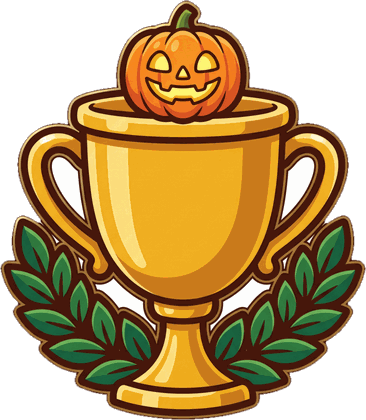
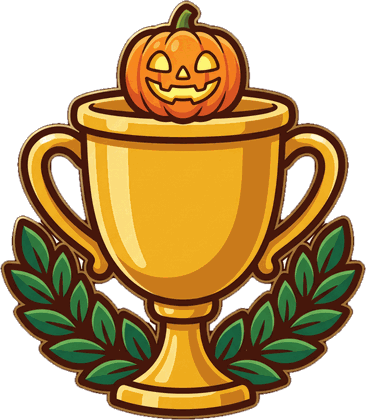
Coupe des Morts : pas de classement avant le choix d'équipe (juste l'outsider), bonus outsider affiché sur la page Équipes ; pin's doré re-détouré

diff --git a/js/assets.js b/js/assets.js
@@ -1,3 +1,3 @@
 /* généré par tools/manifest.py */
 window.ASSETS = ["ach-aga100", "ach-agr3", "ach-bets50", "ach-bets500", "ach-boo50", "ach-car1", "ach-car7", "ach-cards30", "ach-cards60", "ach-club10", "ach-combi20", "ach-combi3", "ach-cool50", "ach-cr10", "ach-crp25", "ach-dance30", "ach-deal10", "ach-deal50", "ach-decos5", "ach-first-bet", "ach-garage3", "ach-gold5", "ach-hodl", "ach-item10", "ach-jackpot", "ach-look2", "ach-lvl10", "ach-lvl20", "ach-mine10", "ach-mine200", "ach-prop1", "ach-prop4", "ach-quests5", "ach-resell25", "ach-rigmax", "ach-roul50", "ach-roul500", "ach-scr50", "ach-scr500", "ach-ser1", "ach-ser5", "ach-skin3", "ach-slots4", "ach-sneak5", "ach-spin100", "ach-spin1000", "ach-stk10", "ach-stock50", "ach-streak7", "ach-tip20", "ach-w100k", "ach-w10k", "ach-w1m", "ach-watch3", "ach-win10", "ach-win100", "ach-win500", "act-collab", "act-live", "act-rest", "act-shoot", "act-trip", "app-agence", "app-bank", "app-bets", "app-binder", "app-boosters", "app-crypto", "app-immo", "app-infos", "app-missions", "app-msg", "app-objets", "app-settings", "art-c-signed", "art-coach-foot", "art-coach-tennis", "art-fan-ultra", "art-k-b1", "art-k-b10", "art-k-b11", "art-k-b12", "art-k-b2", "art-k-b3", "art-k-b4", "art-k-b5", "art-k-b6", "art-k-b7", "art-k-b8", "art-k-b9", "art-k-f1", "art-k-f10", "art-k-f11", "art-k-f12", "art-k-f13", "art-k-f14", "art-k-f15", "art-k-f16", "art-k-f17", "art-k-f18", "art-k-f19", "art-k-f2", "art-k-f20", "art-k-f21", "art-k-f22", "art-k-f23", "art-k-f24", "art-k-f3", "art-k-f4", "art-k-f5", "art-k-f6", "art-k-f7", "art-k-f8", "art-k-f9", "art-k-r1", "art-k-r2", "art-k-r3", "art-k-r4", "art-k-r5", "art-k-r6", "art-k-t1", "art-k-t10", "art-k-t11", "art-k-t12", "art-k-t2", "art-k-t3", "art-k-t4", "art-k-t5", "art-k-t6", "art-k-t7", "art-k-t8", "art-k-t9", "art-mascot", "art-ref-foot", "art-six-cap-1", "art-six-cap-2", "art-six-cap-3", "badge-xe", "bed-laptop-f", "bed-laptop-m", "bg-city", "bg-city-hiver", "bg-city-neon", "bg-city-renov", "bld-appart", "bld-appart-hiver", "bld-appart-neon", "bld-appart-renov", "bld-balto", "bld-balto-hiver", "bld-balto-neon", "bld-balto-renov", "bld-bijou", "bld-casino", "bld-casino-hiver", "bld-casino-neon", "bld-casino-renov", "bld-club", "bld-club-hiver", "bld-club-renov", "bld-garage", "bld-kiosque", "bld-kiosque-hiver", "bld-kiosque-neon", "bld-kiosque-renov", "bld-parking", "bld-shop", "bld-shop-hiver", "bld-shop-neon", "bld-shop-renov", "bld-six", "bld-six-hiver", "bld-six-neon", "bld-six-off", "bld-six-renov", "bld-tour", "bonus-airdrop", "bonus-cash", "bonus-freebet", "bonus-lingots", "bonus-ticket", "bonus-xp", "booster-pack", "btn-momo", "btn-setup", "btn-upgrade", "card-back", "card-back-crea", "card-bg-basket", "card-bg-foot", "card-bg-rugby", "card-bg-tennis", "casino-machine", "cat-car", "cat-card", "cat-crea", "cat-gem", "cat-gold", "cat-moto", "cat-sneaker", "cat-trophy", "cat-watch", "chip-1", "chip-10", "chip-100", "chip-25", "chip-5", "chip-500", "club-door", "club-room", "coin-btk", "coin-dgk", "coin-eta", "coin-lmn", "coin-ppc", "coin-slr", "cr-eva", "cr-ines", "cr-jade", "cr-kim", "cr-leila", "cr-lola", "cr-mila", "cr-nora", "cr-rose", "cr-sasha", "cred-boss", "cred-caid", "cred-hustler", "cred-magnat", "crest-b1", "crest-b10", "crest-b11", "crest-b12", "crest-b2", "crest-b3", "crest-b4", "crest-b5", "crest-b6", "crest-b7", "crest-b8", "crest-b9", "crest-f1", "crest-f10", "crest-f11", "crest-f12", "crest-f13", "crest-f14", "crest-f15", "crest-f16", "crest-f17", "crest-f18", "crest-f19", "crest-f2", "crest-f20", "crest-f21", "crest-f22", "crest-f23", "crest-f24", "crest-f3", "crest-f4", "crest-f5", "crest-f6", "crest-f7", "crest-f8", "crest-f9", "crest-r1", "crest-r2", "crest-r3", "crest-r4", "crest-r5", "crest-r6", "deco-chaudron", "deco-citrouilles", "deco-dc-arcade", "deco-dc-ball", "deco-dc-bench", "deco-dc-car", "deco-dc-flags", "deco-dc-fountain", "deco-dc-kebab", "deco-dc-lamp", "deco-dc-palm", "deco-dc-posts", "deco-dc-statue", "deco-dc-trophy", "deco-toiles", "deco-tombe", "ev-boost", "ev-cdm-bg", "ev-cdm-board", "ev-cdm-candy", "ev-cdm-chest", "ev-cdm-cup", "ev-rig", "ev-sale", "ev-xp", "frame-cdm", "frame-gold", "frame-six", "full-c-ace", "full-c-ballon", "full-c-dunk", "full-c-essai", "full-c-final", "full-c-goat", "full-c-graded", "full-coach", "full-k-b4", "full-k-f4", "full-k-f8", "full-k-t1", "full-rookie", "fx-smoke", "gear-cam", "gear-cosplay", "gear-gown", "gear-mic", "gear-ring", "gear-spa", "gear-sport", "gear-studio", "gear-travel", "gift-big", "gift-open", "graded-slab", "guide", "hab-club", "hab-drink", "hab-smoke", "hdr-daily", "hdr-levelup", "hdr-missions", "hdr-settings", "ic-ad-reward", "ic-bell", "ic-burn", "ic-bus", "ic-club-bar", "ic-club-dance", "ic-club-dj", "ic-club-door", "ic-club-lounge", "ic-club-vip", "ic-down", "ic-ev-cdm", "ic-fan", "ic-flame", "ic-heat", "ic-info", "ic-mood", "ic-pickaxe", "ic-promo", "ic-promo-bf", "ic-promo-halloween", "ic-promo-noel", "ic-rumor", "ic-shelf", "ic-shop-lingots", "ic-shop-ville", "ic-sport-all", "ic-sport-basket", "ic-sport-foot", "ic-sport-tennis", "ic-subs", "ic-target", "ic-timer", "ic-truck", "ic-unlock", "ic-up", "ic-videur", "ic-virus", "icon-arrowL", "icon-arrowR", "icon-bolt", "icon-cash", "icon-check", "icon-dice", "icon-gear", "icon-gift", "icon-lingot", "icon-lock", "icon-mute", "icon-sound", "icon-star", "icon-treasure", "icon-trophy", "item-c-1st", "item-c-dragon", "item-c-holo", "item-c-psa10", "item-c-signed", "item-cr-betonnard", "item-cr-biscotto", "item-cr-bitumouche", "item-cr-canardo", "item-cr-chenillette", "item-cr-cosmo", "item-cr-crocodalle", "item-cr-electrochat", "item-cr-escargoat", "item-cr-fenekko", "item-cr-flamenkoh", "item-cr-fourmidable", "item-cr-golemneon", "item-cr-gorilleur", "item-cr-grenouf", "item-cr-herissnik", "item-cr-hiboss", "item-cr-kaiju", "item-cr-kebabzor", "item-cr-kraken", "item-cr-licornette", "item-cr-liontours", "item-cr-louperiph", "item-cr-matouz", "item-cr-moustikass", "item-cr-pandagrillz", "item-cr-parrain", "item-cr-phenix", "item-cr-pigeonnard", "item-cr-poubellou", "item-cr-ratchou", "item-cr-requinoir", "item-cr-scarabling", "item-cr-serpentdor", "item-cr-taupecash", "item-cr-tigresko", "item-cr-trotilezard", "item-cr-yetiz", "item-g-comic", "item-g-diam", "item-g-earrings", "item-g-egg", "item-g-emerald", "item-g-pearl", "item-g-roman", "item-g-ruby", "item-g-sapphire", "item-g-stamp", "item-m-cafe", "item-m-chopper", "item-m-cross", "item-m-road", "item-m-scoot", "item-m-sport", "item-m-touring", "item-m-trike", "item-o-bar10", "item-o-bar100", "item-o-chain", "item-o-lion", "item-o-napo", "item-o-nugget", "item-o-ring", "item-p-flat", "item-p-office", "item-p-park", "item-p-studio", "item-s-basket", "item-s-camo", "item-s-chunky", "item-s-collab", "item-s-court", "item-s-gold", "item-s-graff", "item-s-lux", "item-s-moon", "item-s-neon", "item-s-retro", "item-s-runner", "item-s-skate", "item-st-kbc", "item-st-mtr", "item-st-nbk", "item-st-pxl", "item-st-sol", "item-st-stw", "item-t-collect", "item-t-combi", "item-t-first", "item-t-hodl", "item-t-jackpot", "item-v-city", "item-v-electric", "item-v-gti", "item-v-hyper", "item-v-muscle", "item-v-pickup", "item-v-rally", "item-v-super", "item-v-van", "item-w-chrono", "item-w-digital", "item-w-diver", "item-w-field", "item-w-grail", "item-w-iced", "item-w-pilot", "item-w-pocket", "item-w-quartz", "item-w-sq", "item-w-steel", "item-w-tourb", "item-w-unique", "load-1", "load-2", "load-3", "load-4", "load-5", "load-6", "load-7", "load-8", "logo", "medal-bronze", "medal-gold", "medal-silver", "minerv-0", "minerv-1", "minerv-2", "minerv-3", "minerv-4", "nav-bets", "nav-city", "nav-home", "nav-shop", "nav-trading", "nav-wallet", "niche-beaute", "niche-bienetre", "niche-cuisine", "niche-danse", "niche-fitness", "niche-gaming", "niche-mode", "niche-musique", "niche-voyage", "pack-collec", "pack-magnat", "pack-noads", "pack-pass", "pack-start", "parking-bg", "pc-0", "pc-1", "pc-2", "pcv-0", "pcv-1", "pcv-2", "pcv-r1", "pcv-r2", "pcv-r3", "pcv-r4", "phone-wall", "pin-demons", "pin-fantomes", "pin-gold", "pin-vampires", "pin-zombies", "player-t1", "player-t10", "player-t11", "player-t12", "player-t2", "player-t3", "player-t4", "player-t5", "player-t6", "player-t7", "player-t8", "player-t9", "pop-starter", "rig-0", "rig-1", "rig-2", "rig-3", "rig-4", "rigv-0", "rigv-1", "rigv-2", "rigv-3", "rigv-4", "ringlight", "room-f-0", "room-f-1", "room-f-2", "room-m-0", "room-m-1", "room-m-2", "roulette-felt", "roulette-hub", "scr-beer", "scr-burger", "scr-cap", "scr-dice", "scr-headphones", "scr-scooter", "shop-hero", "shop-lingot-1", "shop-lingot-2", "shop-lingot-3", "shop-lingot-4", "shop-lingot-5", "shop-lingot-6", "skin-boss", "skin-boss-bust", "skin-doudoune", "skin-doudoune-bust", "skin-flambeur", "skin-flambeur-bust", "skin-gold", "skin-gold-bust", "skin-hoodie", "skin-hoodie-bust", "skin-sportive", "skin-sportive-bust", "skin-survet", "skin-survet-bust", "slot-bar", "slot-bell", "slot-cherry", "slot-diam", "slot-lemon", "slot-seven", "team-demons", "team-fantomes", "team-vampires", "team-zombies", "ticket-flash", "tip-crypto", "tip-market", "tip-sport", "tk-astro", "tk-banco", "tk-black", "tk-flash", "tk-millio", "tk-morpion", "tkbg-astro", "tkbg-banco", "tkbg-black", "tkbg-flash", "tkbg-millio", "tkbg-morpion", "ui-avatar-frame", "ui-badge", "ui-bar-fill", "ui-bar-frame", "ui-btn-blue", "ui-btn-close", "ui-btn-green", "ui-btn-grey", "ui-btn-plus", "ui-btn-purple", "ui-btn-red", "ui-btn-yellow", "ui-card", "ui-casino-frame", "ui-casino-header", "ui-navbtn", "ui-panel", "ui-pill", "ui-ribbon", "ui-tab-off", "ui-tab-on", "ui-tuto-arrow", "wx-bear", "wx-bull", "wx-calm", "wx-fomo", "wx-krach"];
-window.ASSET_V = 1791399123;
+window.ASSET_V = 1791400312;

diff --git a/js/ui.js b/js/ui.js
@@ -1948,7 +1948,7 @@
     const top = B.top.map((r, k) => `<div class="sb-row ${r.me ? 'me' : ''}"><span class="sb-rk">${B.online ? k + 1 : '–'}</span><span class="sb-nm">${esc(r.me ? `${r.name} (toi)` : r.name)}</span><b>${fmtN(+r.pts || 0)} pts</b></div>`).join('');
     const meRow = B.online && !B.top.some(r => r.me) ? `<div class="sb-gap">…</div><div class="sb-row me"><span class="sb-rk">${B.rank}</span><span class="sb-nm">${esc(st().name)} (toi)</span><b>${fmtN(S.pts)} pts</b></div>` : '';
     return head + `<h3 class="sec">La course des équipes${B.online ? ` <small>· ${fmtN(B.players)} joueur${B.players > 1 ? 's' : ''}</small>` : ''}</h3>${cdmRace(B, S.team)}
-      <div class="card cdm-mine" style="--tc:${T.color};--td:${T.dark}">${cdmCrest(T.id)}<div><b>${T.name}</b><small>« ${T.motto} »</small><p>Ta part : <b>${fmtN(S.pts)} pts</b>${B.online ? ` · ${B.rank}<sup>${B.rank === 1 ? 'er' : 'e'}</sup> sur ${fmtN(B.of)}` : ''}</p></div></div>
+      <div class="card cdm-mine" style="--tc:${T.color};--td:${T.dark}">${cdmCrest(T.id)}<div><b>${T.name}</b><small>« ${T.motto} »</small><p>Ta part : <b>${fmtN(S.pts)} pts</b>${B.online ? ` · ${B.rank}<sup>${B.rank === 1 ? 'er' : 'e'}</sup> sur ${fmtN(B.of)}` : ''}</p>${S.boost ? `<span class="cdm-under-tag">Outsider · tes points comptent +${Math.round((S.boost - 1) * 100)} %</span>` : ''}</div></div>
       ${(() => { const by = (S.day && S.day.d === G.cdmNight().d && S.day.by) || (S.day && S.day.by) || {}, how = Object.entries(C.pts).map(([k, p]) => `<div class="sb-row"><span class="sb-nm">${CDM_LBL[k] || k}</span><small class="muted">${by[k] || 0} / ${p[1]} aujourd'hui</small><b>+${p[0]}</b></div>`).join('');
         return `<details class="howto-crypto cdm-howto" ${cdmHowOpen ? 'open' : ''}><summary data-act="cdmHow">Comment gagner des points ?</summary><p>Tout ce que tu fais dans le jeu rapporte des points à ton équipe, avec un maximum par jour pour chaque action. <b>${C.perCandy} points = 1 bonbon</b>.${S.boost ? ` Toi, en outsider : <b>+${Math.round((S.boost - 1) * 100)} %</b> sur tout.` : ''}</p><div class="six-board-list cdm-how">${how}</div></details>`; })()}
       <h3 class="sec">Le top 5 des ${T.name}</h3><div class="six-board-list">${top}${meRow}</div>
@@ -1960,7 +1960,7 @@
     const B = G.cdmBoard();
     return cdmHero() + `<p class="hint-line center">Choisis ton camp ! Tout ce que tu fais dans le jeu rapporte des points à ton équipe. <b>Ton choix est définitif</b> jusqu'à la fin de la Coupe.</p>
       <div class="grid2 cdm-pick">${D.CDM.teams.map(t => { const b = B.teams.find(x => x.id === t.id);
-        return `<button class="cdm-tcard" style="--tc:${t.color};--td:${t.dark}" data-act="cdmPick" data-id="${t.id}">${G.cdmUnderdog() === t.id ? `<span class="cdm-under">Outsider · +${Math.round((D.CDM.outsider - 1) * 100)} % de points</span>` : ''}${cdmCrest(t.id, 'big')}<b>${t.name}</b><small>« ${t.motto} »</small>${B.online ? `<em>${b.rank}<sup>${b.rank === 1 ? 're' : 'e'}</sup> · ${fmtN(b.total)} pts · ${fmtN(b.players)} joueur${b.players > 1 ? 's' : ''}</em>` : ''}</button>`; }).join('')}</div>${B.online ? '' : offLine()}`;
+        return `<button class="cdm-tcard" style="--tc:${t.color};--td:${t.dark}" data-act="cdmPick" data-id="${t.id}">${G.cdmUnderdog() === t.id ? `<span class="cdm-under">Outsider · +${Math.round((D.CDM.outsider - 1) * 100)} % de points</span>` : ''}${cdmCrest(t.id, 'big')}<b>${t.name}</b><small>« ${t.motto} »</small></button>`; }).join('')}</div>`;
   }
   function cdmTabs() { const n = G.cdmNightReady(), k = G.cdmStepsReady(), dot = x => x ? ` <i class="tab-dot">${x}</i>` : '';
     return [{ id: 'team', label: 'Équipes' }, { id: 'nights', label: 'Défis' + dot(n) }, { id: 'steps', label: 'Paliers' + dot(k) }, { id: 'shop', label: 'Boutique' }]; }

diff --git a/game.html b/game.html
@@ -148,7 +148,7 @@
   // Chargement du jeu. En local : les fichiers du dossier. Mis à jour depuis internet (index.html) : le code vient
   // de raw.githubusercontent (rapide et toujours à jour), les images du dossier local quand on joue sur son ordi.
   (function () {
-    var V = '?v=398', FILES = ['js/layout.js', 'js/data.js', 'js/content.js', 'js/assets.js', 'js/game.js', 'js/audio.js', 'js/ui.js', 'js/casino.js', 'js/scratch.js', 'js/balto.js', 'js/agence.js', 'js/tuto.js', 'js/online.js', 'js/push.js'].slice(), CSS = 'css/style.css';
+    var V = '?v=399', FILES = ['js/layout.js', 'js/data.js', 'js/content.js', 'js/assets.js', 'js/game.js', 'js/audio.js', 'js/ui.js', 'js/casino.js', 'js/scratch.js', 'js/balto.js', 'js/agence.js', 'js/tuto.js', 'js/online.js', 'js/push.js'].slice(), CSS = 'css/style.css';
     var m = document.baseURI.match(/^https:\/\/cdn\.jsdelivr\.net\/gh\/([^@]+)@([^/]+)\//);
     if (!m) {
       document.write('<link rel="stylesheet" href="' + CSS + V + '">');

diff --git a/css/style.css b/css/style.css
@@ -3489,3 +3489,4 @@ html.lowfx #app .room-stage .room-obj.hot::after, html.lowfx #app .room-stage .r
 #app .cdm-tcard { position: relative; }
 #app .cdm-under { position: absolute; top: -10px; left: 50%; transform: translateX(-50%); white-space: nowrap; background: #ffd34d; color: #2a1a10; border: 2px solid #2a1a10; border-radius: 999px; padding: 2px 8px; font: 400 11px var(--title); z-index: 2; }
 #app .cdm-under-p { margin: 4px 0; padding: 8px 10px; border-radius: 12px; background: #fff3c4; border: 2px solid #e8b923; font: 800 13px/1.35 var(--text); color: #3b2412; text-align: center; }
+#app .cdm-under-tag { display: inline-block; margin-top: 4px; background: #ffd34d; color: #2a1a10; border: 2px solid #2a1a10; border-radius: 999px; padding: 2px 8px; font: 400 12px var(--title); }

diff --git a/tools/process.py b/tools/process.py
@@ -27,7 +27,7 @@ POCKETS = {
     'graded-slab': 'all',   # boîtier de carte gradée : fenêtre et étiquette vides (la carte s'affiche dessous)
     'item-t-collect': 'all', 'item-t-first': 'all', 'item-t-jackpot': 'all', 'item-t-hodl': 'all',
     **{f'rig-{i}': 'all' for i in range(5)}, **{f'rigv-{i}': 'all' for i in range(5)},
-    **{f'minerv-{i}': 'all' for i in range(5)}, **{f'pc-{i}': 'all' for i in range(3)}, **{f'pcv-{i}': 'all' for i in range(3)}, **{f'pcv-r{i}': 'all' for i in range(1, 5)}, 'medal-bronze': 'all', 'pcv-1': [], 'minerv-1': [], 'minerv-2': [], 'ringlight': {'n': [1, 2, 3]},   # {'n': [...]} = poches par numéro (--poches)   # écrans blancs / emblèmes blancs : aucun vide à retirer
+    **{f'minerv-{i}': 'all' for i in range(5)}, **{f'pc-{i}': 'all' for i in range(3)}, **{f'pcv-{i}': 'all' for i in range(3)}, **{f'pcv-r{i}': 'all' for i in range(1, 5)}, 'medal-bronze': 'all', 'pin-gold': 'all', 'pcv-1': [], 'minerv-1': [], 'minerv-2': [], 'ringlight': {'n': [1, 2, 3]},   # {'n': [...]} = poches par numéro (--poches)   # écrans blancs / emblèmes blancs : aucun vide à retirer
 }
 MAX = {'load': 1080, 'parking': 1080, 'bg': 1080, 'room': 1080, 'club': 1080, 'tkbg': 640, 'bld': 640, 'skin': 560, 'ui': 900, 'default': 420}
 NOCUT = ('bg', 'room', 'club', 'tkbg', 'bonus', 'art', 'full', 'parking', 'load')   # décors : pas de détourage
